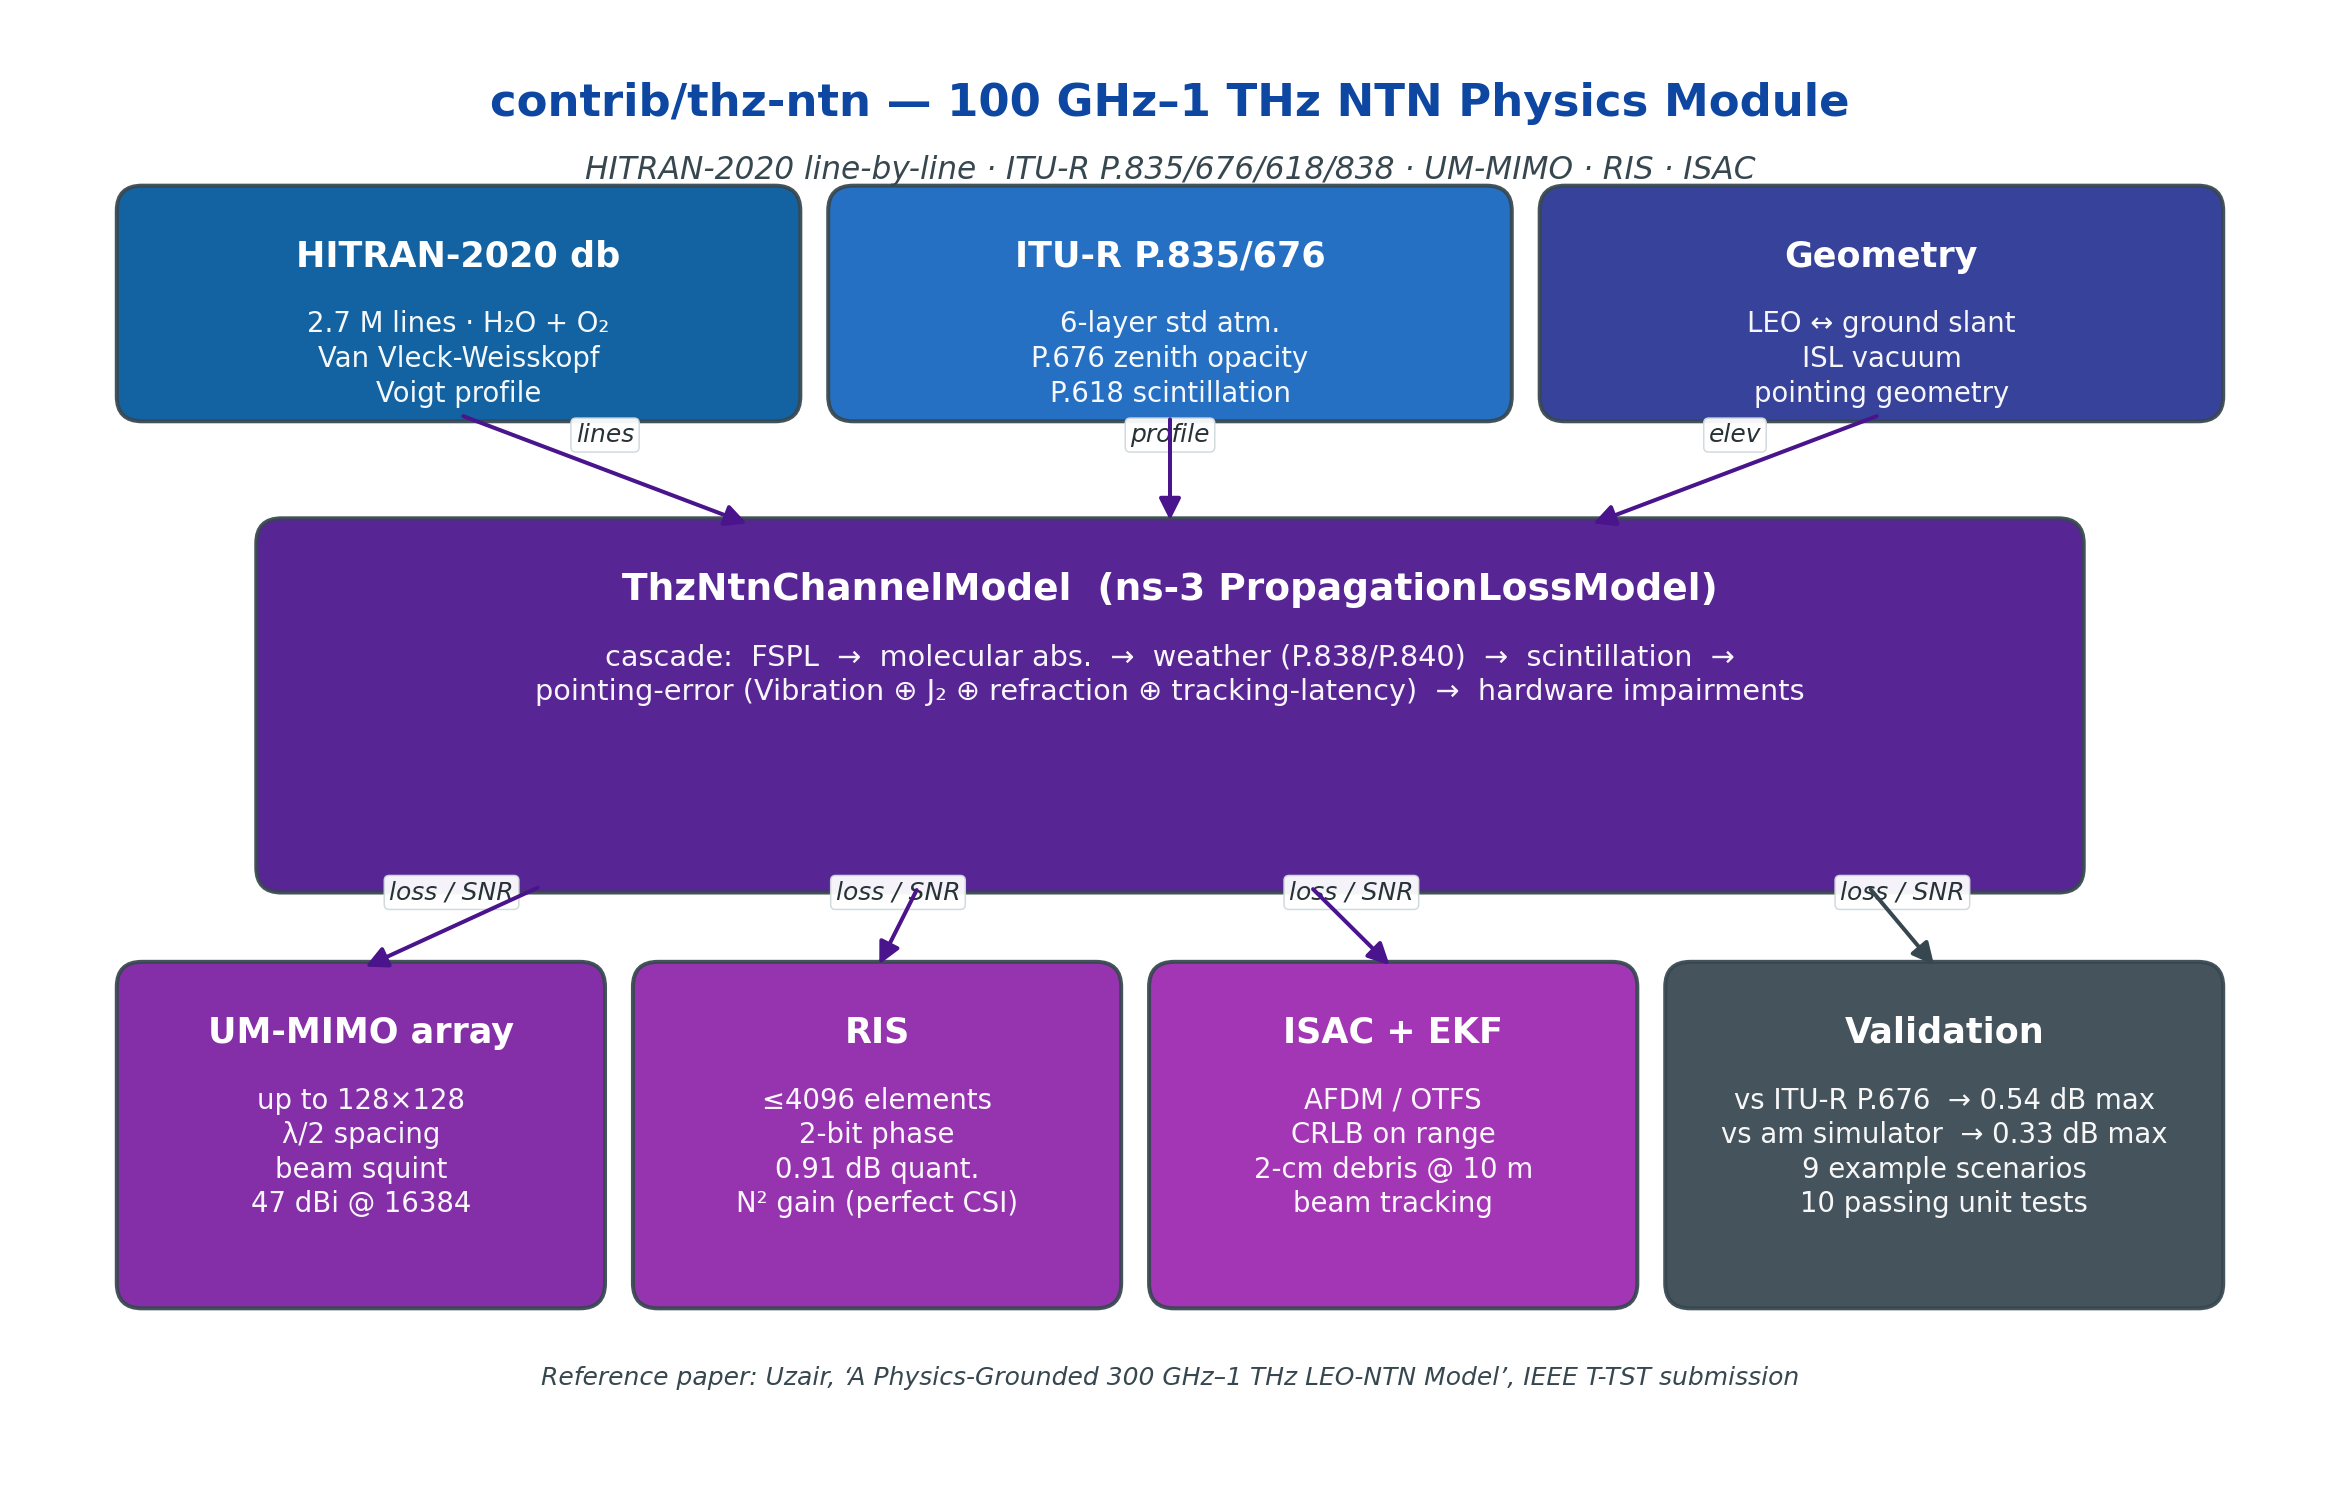
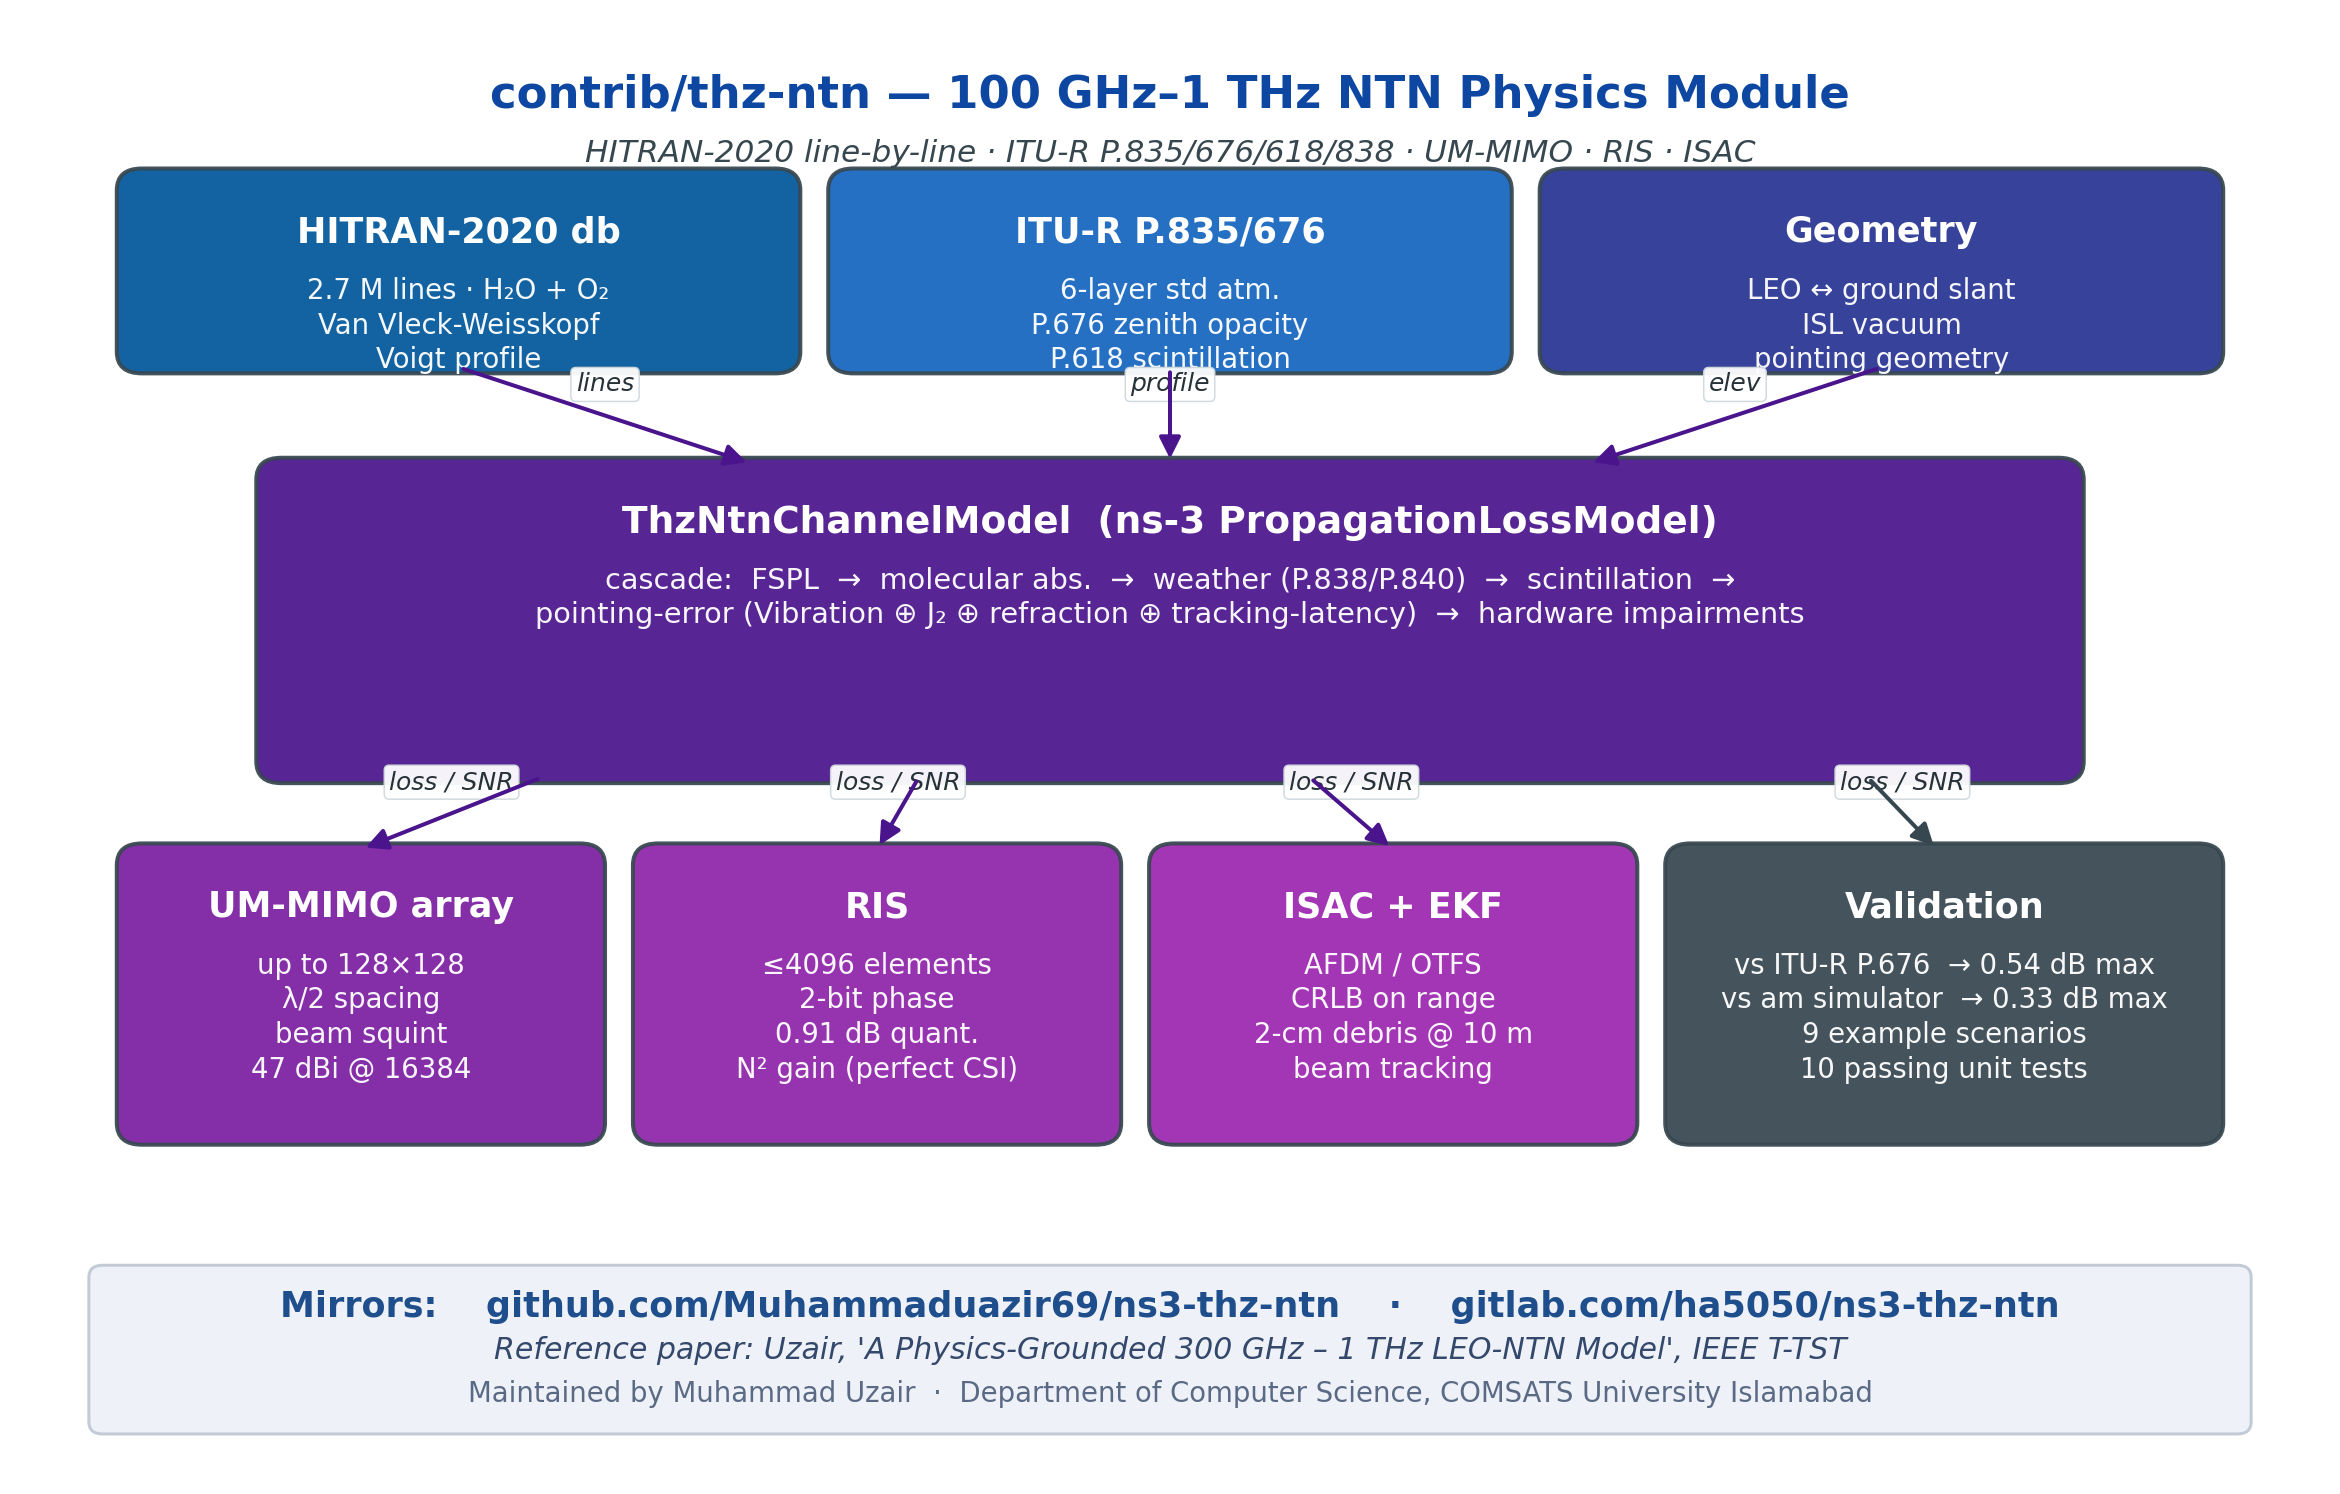
Architecture diagrams: add consistent banded footer across all four
Same wide, light-grey banded footer block on the umbrella, oran-ntn,
thz-ntn and ns3-ai-ntn architecture diagrams:

  Mirrors:   github.com/...   ·   gitlab.com/...
  <module-specific tagline>
  Maintained by Muhammad Uzair  ·  Department of Computer Science,
  COMSATS University Islamabad

Footer fonts bumped to 18 / 16 / 15 pt on the 110-dpi diagrams and
14 / 12 / 11 pt on the 180-dpi diagrams (visually equivalent at the
same display width). thz-ntn and ns3-ai-ntn ylim extended to (-1.5, 10)
so the footer band fits below existing content. oran-ntn gNB row height
bumped from 0.072 to 0.088 so all 3 sub-lines now render.

diff --git a/tools/generate_module_assets.py b/tools/generate_module_assets.py
@@ -85,6 +85,34 @@ def _save(fig, name):
     return p
 
 
+def _footer(ax, *, github_path, gitlab_path, role,
+            x_left=0.30, width=15.40, y_top=-0.10, height=1.30):
+    """Banded footer for the legacy 16x10 canvas.
+
+    Caller should expand ylim downwards (e.g. ``ax.set_ylim(-1.5, 10)``)
+    so this footer (drawn at negative y) is included in the saved figure.
+    """
+    y_bot = y_top - height
+    ax.add_patch(FancyBboxPatch(
+        (x_left, y_bot), width, height,
+        boxstyle="round,pad=0.05,rounding_size=0.10",
+        linewidth=1.2, edgecolor="#c2cad6",
+        facecolor="#eef2f8", zorder=1,
+    ))
+    cx = x_left + width / 2
+    ax.text(cx, y_top - 0.30,
+            f"Mirrors:    github.com/{github_path}    ·    gitlab.com/{gitlab_path}",
+            fontsize=14, weight="bold", color="#1f4e8c",
+            ha="center", va="center")
+    ax.text(cx, y_top - 0.66, role,
+            fontsize=12, color="#33486a",
+            ha="center", va="center", style="italic")
+    ax.text(cx, y_top - 1.02,
+            "Maintained by Muhammad Uzair  ·  Department of Computer Science, COMSATS University Islamabad",
+            fontsize=11, color="#5a6a85",
+            ha="center", va="center")
+
+
 # ===============================================================
 #  1. ntn-cho  architecture
 # ===============================================================
@@ -199,6 +227,7 @@ def diag_oran_ntn():
 def diag_thz_ntn():
     print("[arch] thz-ntn")
     fig, ax = _new_canvas()
+    ax.set_ylim(-1.5, 10)            # extra space for the banded footer
     c = ACCENT["thz-ntn"]
     _title(ax, "contrib/thz-ntn — 100 GHz–1 THz NTN Physics Module",
            "HITRAN-2020 line-by-line · ITU-R P.835/676/618/838 · UM-MIMO · RIS · ISAC")
@@ -244,9 +273,10 @@ def diag_thz_ntn():
     _arrow(ax, 9.0, 4.0, 9.6, 3.4, "loss / SNR", c)
     _arrow(ax, 13.0, 4.0, 13.5, 3.4, "loss / SNR", "#37474f")
 
-    ax.text(8, 0.40,
-            "Reference paper: Uzair, ‘A Physics-Grounded 300 GHz–1 THz LEO-NTN Model’, IEEE T-TST submission",
-            ha="center", fontsize=10, color="#37474f", fontstyle="italic")
+    _footer(ax,
+            github_path="Muhammaduazir69/ns3-thz-ntn",
+            gitlab_path="ha5050/ns3-thz-ntn",
+            role="Reference paper: Uzair, 'A Physics-Grounded 300 GHz – 1 THz LEO-NTN Model', IEEE T-TST")
     return _save(fig, "arch_thz_ntn.png")
 
 
@@ -256,6 +286,7 @@ def diag_thz_ntn():
 def diag_ns3_ai():
     print("[arch] ns3-ai")
     fig, ax = _new_canvas()
+    ax.set_ylim(-1.5, 10)            # extra space for the banded footer
     c = ACCENT["ns3-ai"]
     _title(ax, "ns3-ai (fork) — ns-3.43 + Python 3.13 + NumPy 2 Compatibility Patches",
            "Gymnasium 1.0  ·  pybind11 2.13  ·  shared-memory IPC  ·  4 RL agents shipped")
@@ -296,6 +327,11 @@ def diag_ns3_ai():
     _arrow(ax, 6.0, 4.6, 6.4, 5.4, "act", c)
     _arrow(ax, 9.6, 7.5, 10.0, 7.7, "obs", c)
     _arrow(ax, 9.6, 5.4, 10.0, 4.6, "act", c)
+
+    _footer(ax,
+            github_path="Muhammaduazir69/ns3-ai",
+            gitlab_path="ha5050/ns3-ai",
+            role="ns-3.43 + Python 3.13 + NumPy 2 compatibility patches  ·  MARL-ready RL bridge")
     return _save(fig, "arch_ns3_ai.png")
 
 
